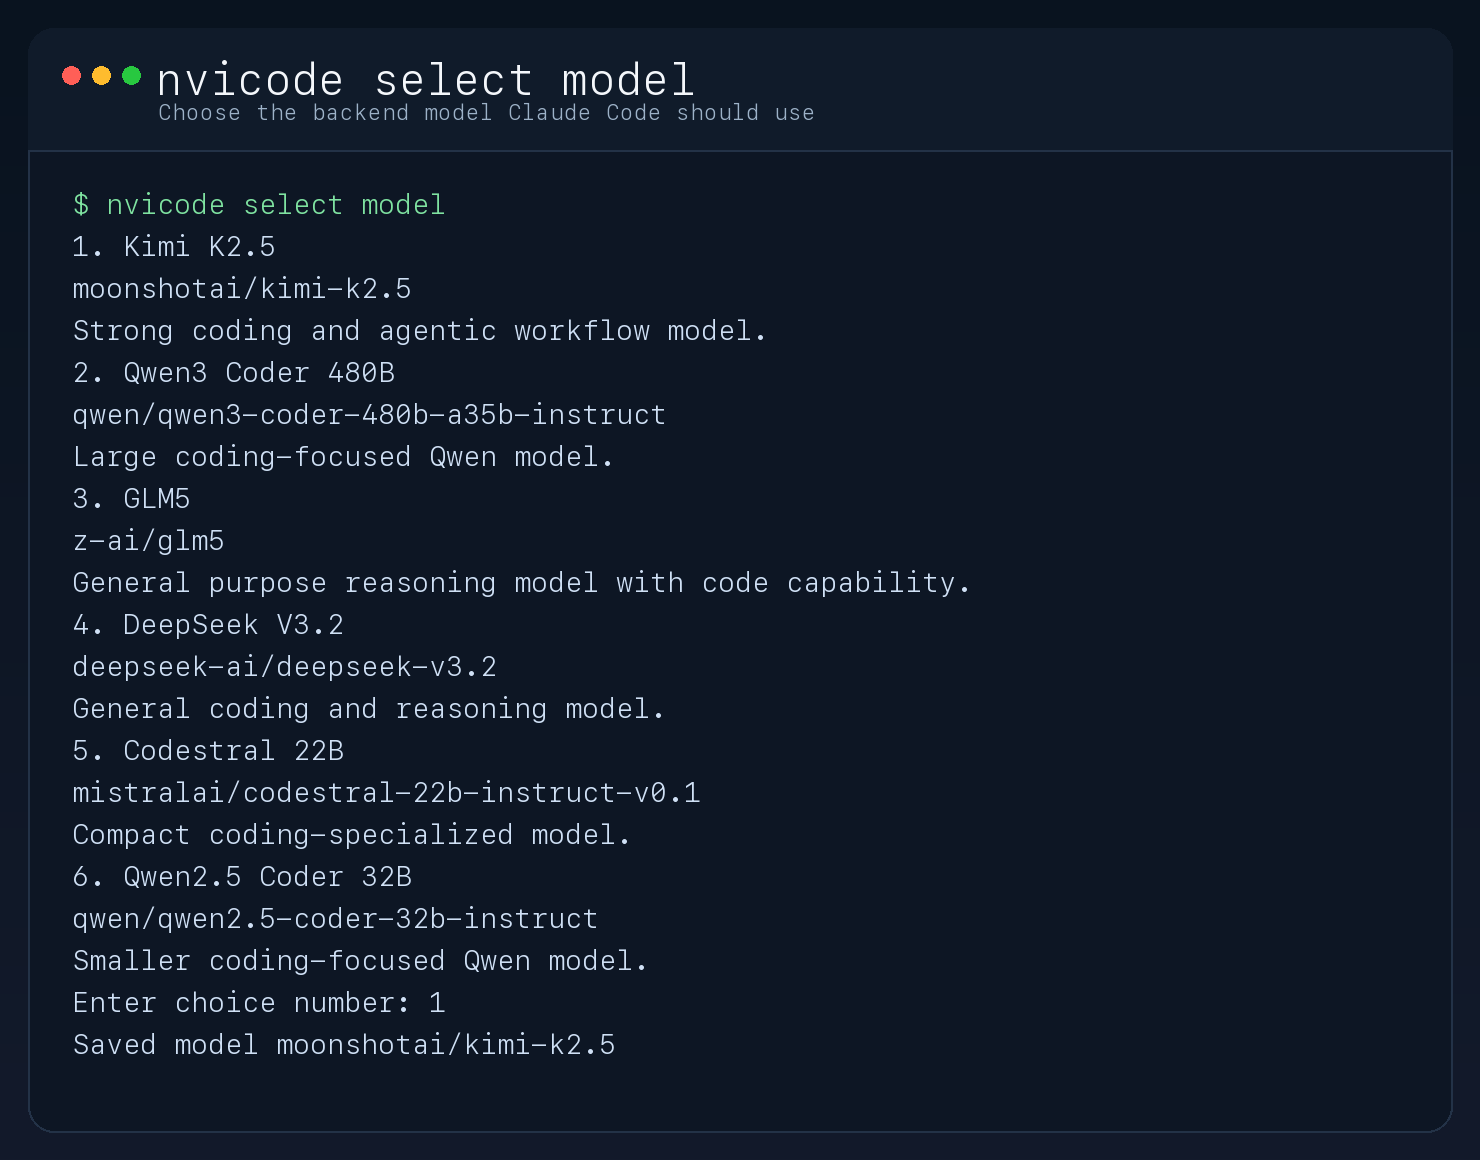
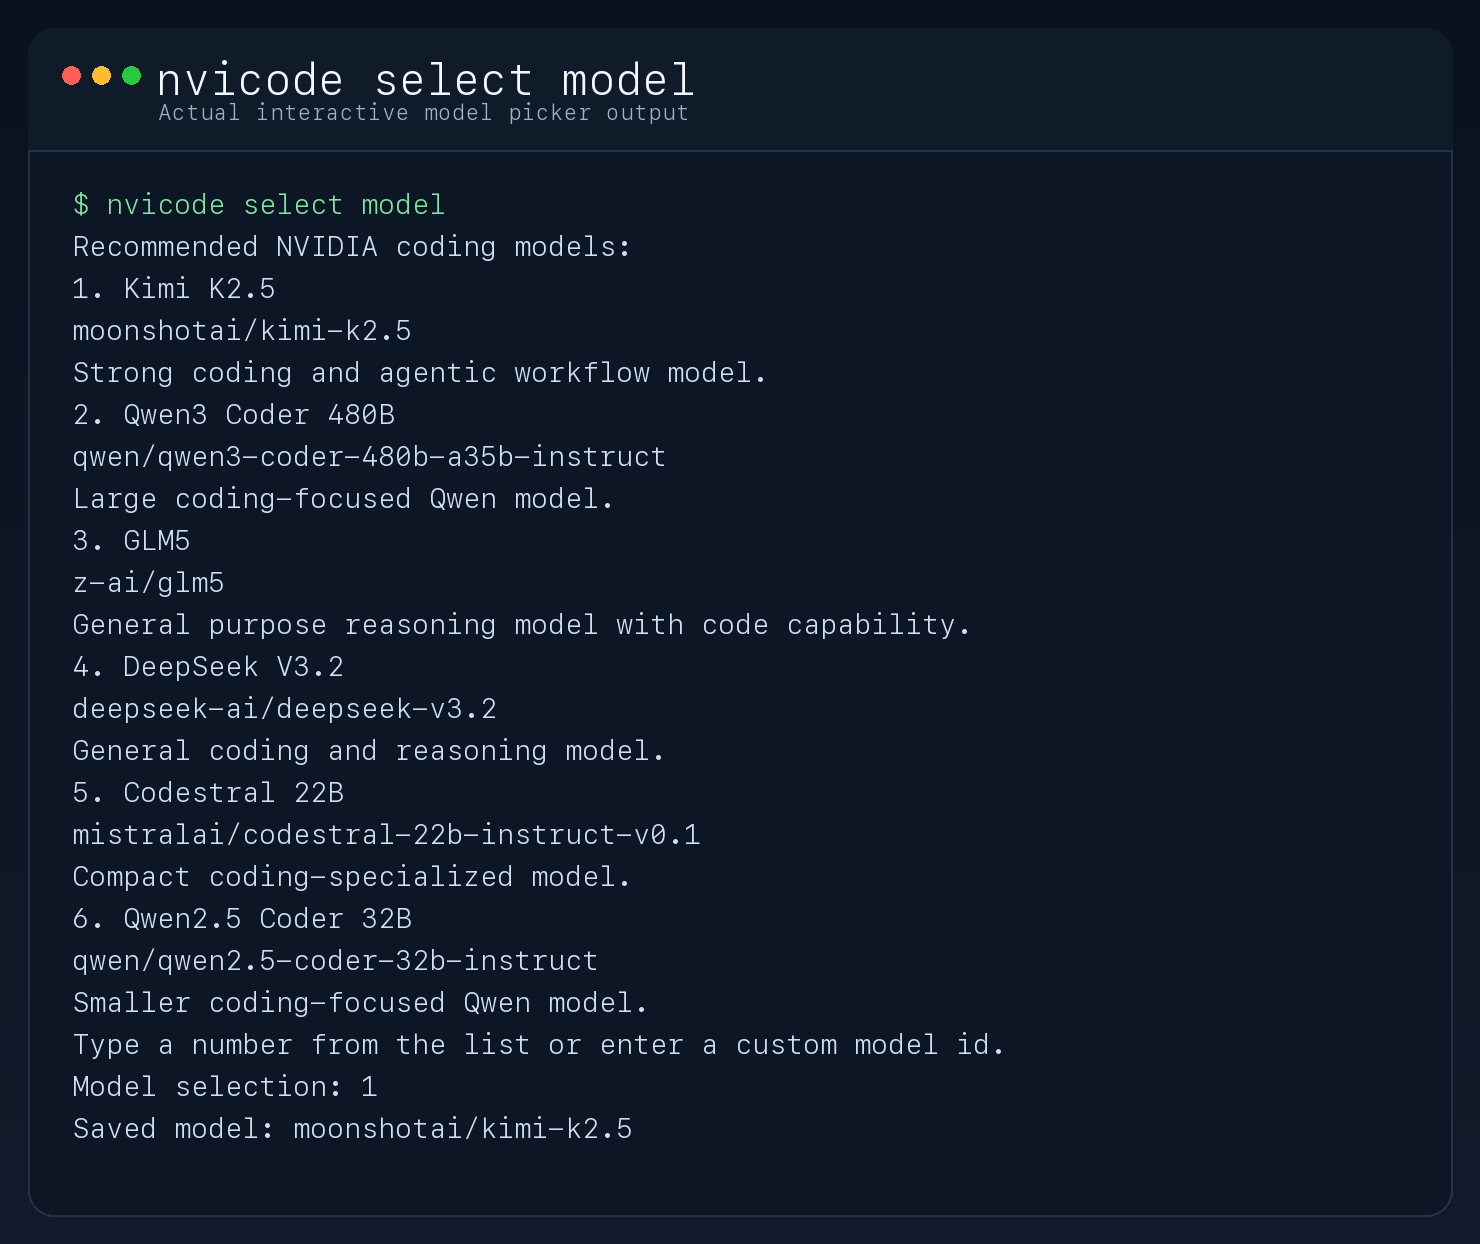
Update README setup screenshots

diff --git a/scripts/render_readme_screenshots.py b/scripts/render_readme_screenshots.py
@@ -127,22 +127,22 @@ def render_terminal_card(
 def main() -> None:
     render_terminal_card(
         title="nvicode auth",
-        subtitle="Save a NVIDIA API key once, then reuse it for future launches",
+        subtitle="Actual first-run prompt and save confirmation",
         filename="auth.png",
         body=(
             "$ nvicode auth\n"
-            "Enter NVIDIA API key: nvapi-************************************\n"
-            "Saved API key to ~/.local/share/nvicode/config.json\n"
-            "Ready to launch Claude Code through NVIDIA."
+            "NVIDIA API key: nvapi-example-readme-key\n"
+            "Saved NVIDIA API key."
         ),
     )
 
     render_terminal_card(
         title="nvicode select model",
-        subtitle="Choose the backend model Claude Code should use",
+        subtitle="Actual interactive model picker output",
         filename="select-model.png",
         body=(
             "$ nvicode select model\n"
+            "Recommended NVIDIA coding models:\n"
             "1. Kimi K2.5\n"
             "   moonshotai/kimi-k2.5\n"
             "   Strong coding and agentic workflow model.\n"
@@ -161,22 +161,32 @@ def main() -> None:
             "6. Qwen2.5 Coder 32B\n"
             "   qwen/qwen2.5-coder-32b-instruct\n"
             "   Smaller coding-focused Qwen model.\n"
-            "Enter choice number: 1\n"
-            "Saved model moonshotai/kimi-k2.5"
+            "Type a number from the list or enter a custom model id.\n"
+            "Model selection: 1\n"
+            "Saved model: moonshotai/kimi-k2.5"
         ),
     )
 
     render_terminal_card(
         title="nvicode launch claude",
-        subtitle="Launch Claude Code with the local gateway pointed at NVIDIA",
+        subtitle="Actual Claude Code status after launching through nvicode",
         filename="launch.png",
         body=(
             "$ nvicode launch claude\n"
-            "Starting local gateway on 127.0.0.1:8788\n"
-            "Using model moonshotai/kimi-k2.5\n"
-            "Launching Claude Code with NVIDIA backend...\n"
+            "Claude Code v2.1.87\n"
             "\n"
-            "Claude Code opens here."
+            "❯ /status\n"
+            "Status   Config   Usage\n"
+            "\n"
+            "Version: 2.1.87\n"
+            "Session name: /rename to add a name\n"
+            "Session ID: 2c9d288b-98b0-4fde-ba25-533bfd06f53e\n"
+            "cwd: ~/project\n"
+            "Auth token: ANTHROPIC_AUTH_TOKEN\n"
+            "Anthropic base URL: http://127.0.0.1:8788\n"
+            "\n"
+            "Model: moonshotai/kimi-k2.5\n"
+            "Setting sources: User settings"
         ),
     )
 

diff --git a/README.md b/README.md
@@ -12,6 +12,8 @@ npm install -g nvicode
 
 Save your NVIDIA API key:
 
+Get a free key from [NVIDIA Build API Keys](https://build.nvidia.com/settings/api-keys).
+
 ```sh
 nvicode auth
 ```
